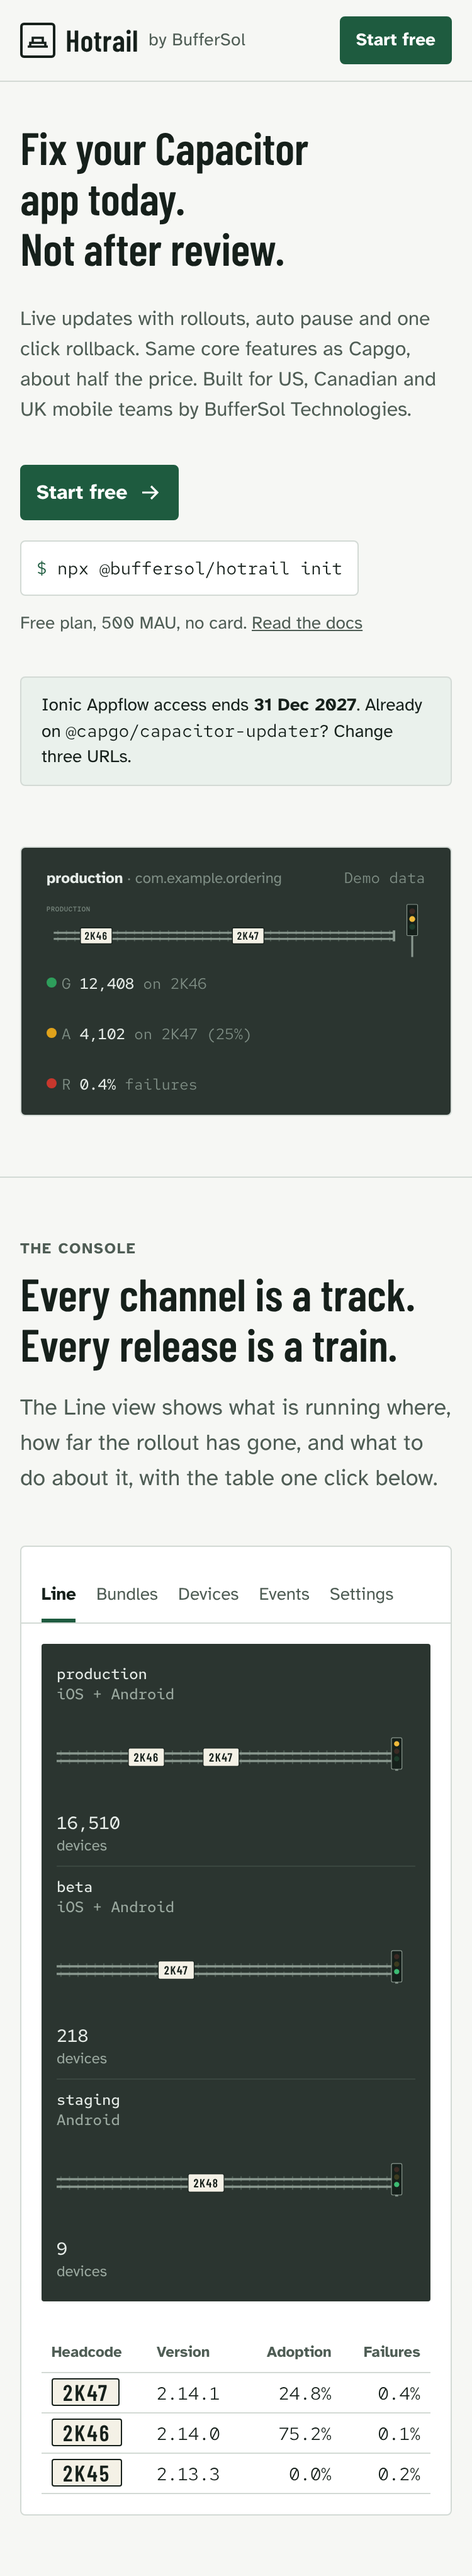
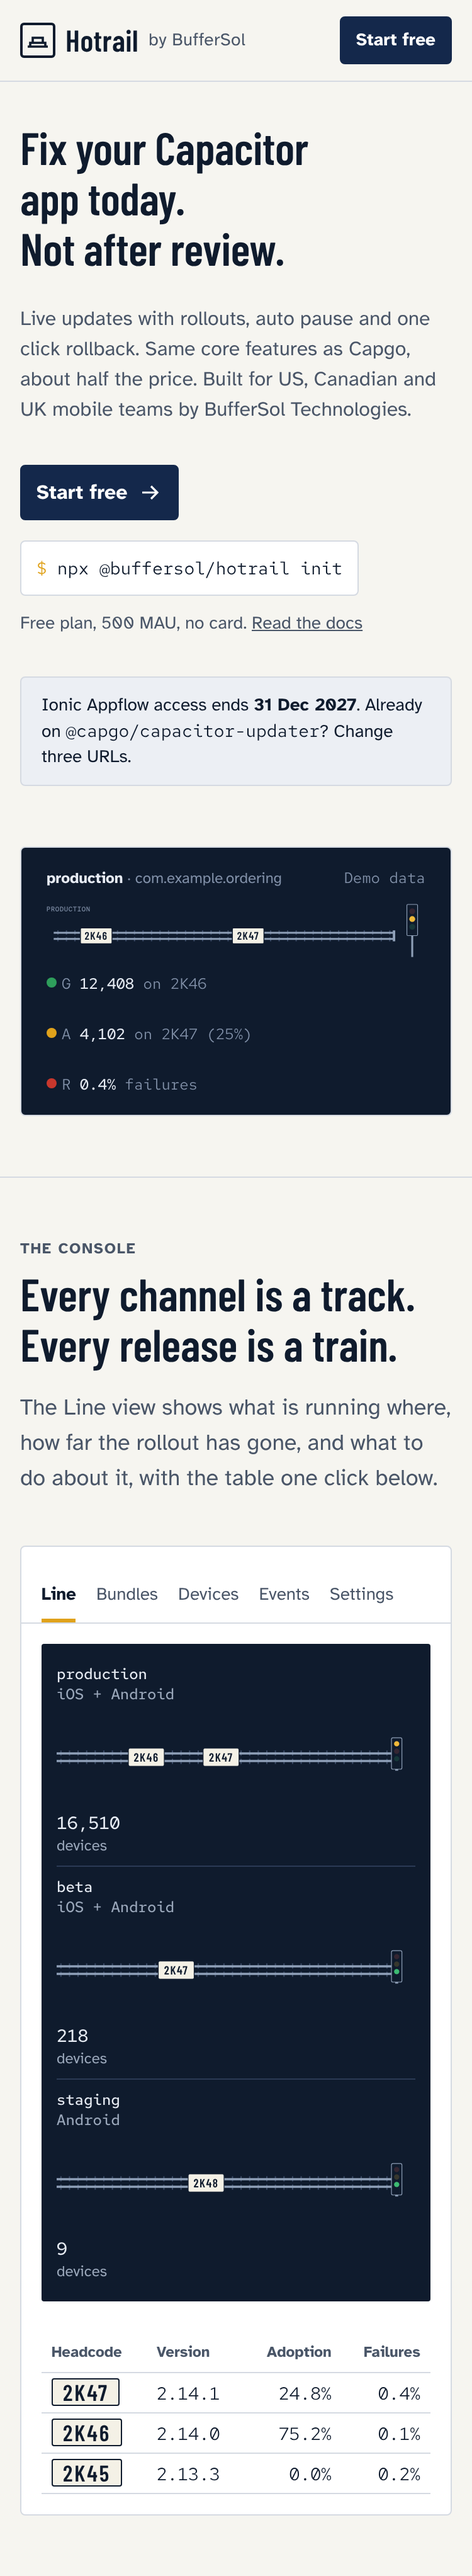
Design: signal navy + amber palette (orchestrator review) (#2)
* Phase 0: design system, section plan, architecture, roadmap, mock

Claude-Session: https://claude.ai/code/session_01Mn59CmuxkC9sgJRSjbnGEz

* Design: switch primary palette to signal navy + amber

Claude-Session: https://claude.ai/code/session_01Mn59CmuxkC9sgJRSjbnGEz

---------

diff --git a/docs/design/mock.html b/docs/design/mock.html
@@ -12,14 +12,14 @@
[2 lines of base64/hex data omitted]
 :root{
-  --bg:#F6F7F4;--surface:#FFFFFF;--soft:#EAF1EC;--ink:#16201B;--ink-muted:#4F5D55;--border:#D3DAD5;--track:#2B3530;
-  --primary:#1E5B3F;--primary-hover:#174A33;--on-primary:#FFFFFF;
+  --bg:#F6F5F0;--surface:#FFFFFF;--soft:#ECEFF4;--ink:#0F1B2D;--ink-muted:#4A5668;--border:#D5DAE2;--track:#1C2B44;
+  --primary:#14284B;--primary-hover:#0E1D38;--on-primary:#FFFFFF;
   --lamp-green:#2E9E5B;--lamp-amber:#E0A21B;--lamp-red:#C8372D;--plate:#F4F1E6;--focus:#E0A21B;--info:#2C6E91;
-  --panel:#2B3530;--panel-ink:#E6ECE8;--panel-dim:#7F8E85;
+  --panel:#0F1B2D;--panel-ink:#E7ECF4;--panel-dim:#8190A8;
   --ease:cubic-bezier(0.22,1,0.36,1);
 }
-@media (prefers-color-scheme:dark){:root:not([data-theme=light]){--bg:#0F1412;--surface:#18201C;--soft:#1F2924;--ink:#E6ECE8;--ink-muted:#9AA89F;--border:#2A3530;--track:#5D6B63;--primary:#4FB585;--primary-hover:#6AC79B;--on-primary:#0F1412;--lamp-green:#3DBB73;--lamp-amber:#F0B93A;--lamp-red:#E4574D;--focus:#F0B93A;--info:#5FA8CF;--panel:#111815;--panel-dim:#6F7F76}}
-:root[data-theme=dark]{--bg:#0F1412;--surface:#18201C;--soft:#1F2924;--ink:#E6ECE8;--ink-muted:#9AA89F;--border:#2A3530;--track:#5D6B63;--primary:#4FB585;--primary-hover:#6AC79B;--on-primary:#0F1412;--lamp-green:#3DBB73;--lamp-amber:#F0B93A;--lamp-red:#E4574D;--focus:#F0B93A;--info:#5FA8CF;--panel:#111815;--panel-dim:#6F7F76}
+@media (prefers-color-scheme:dark){:root:not([data-theme=light]){--bg:#0A101B;--surface:#121B2B;--soft:#182338;--ink:#E7ECF4;--ink-muted:#9AA7BA;--border:#243148;--track:#5A6B87;--primary:#E7ECF4;--primary-hover:#FFFFFF;--on-primary:#0A101B;--lamp-green:#3DBB73;--lamp-amber:#F0B93A;--lamp-red:#E4574D;--focus:#F0B93A;--info:#5FA8CF;--panel:#0B1422;--panel-dim:#7584A0}}
+:root[data-theme=dark]{--bg:#0A101B;--surface:#121B2B;--soft:#182338;--ink:#E7ECF4;--ink-muted:#9AA7BA;--border:#243148;--track:#5A6B87;--primary:#E7ECF4;--primary-hover:#FFFFFF;--on-primary:#0A101B;--lamp-green:#3DBB73;--lamp-amber:#F0B93A;--lamp-red:#E4574D;--focus:#F0B93A;--info:#5FA8CF;--panel:#0B1422;--panel-dim:#7584A0}
 *{box-sizing:border-box;margin:0}
 html{-webkit-text-size-adjust:100%}
 body{background:var(--bg);color:var(--ink);font-family:"Atkinson Hyperlegible",system-ui,sans-serif;font-size:16px;line-height:24px;text-wrap:pretty}
@@ -48,7 +48,7 @@ a{color:inherit}
 .hero p.sub{margin-top:24px;max-width:680px;font-size:18px;line-height:28px;color:var(--ink-muted)}
 .cta{display:flex;flex-wrap:wrap;align-items:center;gap:16px;margin-top:32px}
 .chip{display:inline-flex;align-items:center;gap:8px;padding:8px 12px;min-height:44px;background:var(--surface);border:1px solid var(--border);border-radius:4px;font-size:14px;line-height:20px}
-.chip .p{color:var(--primary)}
+.chip .p{color:var(--lamp-amber)}
 .risk{margin-top:12px;font-size:14px;line-height:20px;color:var(--ink-muted)}
 .proof{margin-top:32px;padding:12px 16px;background:var(--soft);border:1px solid var(--border);border-radius:4px;font-size:14px;line-height:20px;max-width:560px}
 .proof b{font-weight:700}
@@ -62,11 +62,11 @@ a{color:inherit}
 .lamp{display:inline-block;width:8px;height:8px;border-radius:999px;background:currentColor;vertical-align:1px;margin-right:4px}
 .g{color:var(--lamp-green)}.a{color:var(--lamp-amber)}.r{color:var(--lamp-red)}
 /* svg text */
-.t-label{font:500 11px "Red Hat Mono";fill:#7F8E85;letter-spacing:.06em}
-.t-plate{font:600 18px "Barlow Condensed";fill:#16201B;letter-spacing:.08em}
-.t-sig{font:500 11px "Red Hat Mono";fill:#E6ECE8}
-.rail{stroke:#8A988F;stroke-width:3;fill:none}
-.sleeper{stroke:#4B5A52;stroke-width:2}
+.t-label{font:500 11px "Red Hat Mono";fill:#8190A8;letter-spacing:.06em}
+.t-plate{font:600 18px "Barlow Condensed";fill:#0F1B2D;letter-spacing:.08em}
+.t-sig{font:500 11px "Red Hat Mono";fill:#E7ECF4}
+.rail{stroke:#8FA0B8;stroke-width:3;fill:none}
+.sleeper{stroke:#3A4A66;stroke-width:2}
 .train{animation:run 9s var(--ease) infinite alternate}
 @keyframes run{0%,12%{transform:translateX(0)}60%,100%{transform:translateX(250px)}}
 .sigA{animation:aspect 9s steps(1,end) infinite}
@@ -88,21 +88,21 @@ a{color:inherit}
 .main{padding:16px 24px;min-width:0}
 .tabs{display:flex;gap:24px;font-size:14px;line-height:20px;border-bottom:1px solid var(--border);margin:0 -24px 16px;padding:0 24px}
 .tabs a{padding:12px 0;text-decoration:none;color:var(--ink-muted)}
-.tabs a[aria-current]{color:var(--ink);font-weight:700;box-shadow:inset 0 -3px 0 var(--primary)}
+.tabs a[aria-current]{color:var(--ink);font-weight:700;box-shadow:inset 0 -3px 0 var(--focus)}
 .line{background:var(--panel);border-radius:2px;padding:8px 12px;color:var(--panel-ink)}
 .line .row{display:grid;grid-template-columns:96px 1fr 120px;align-items:center;gap:12px;height:76px}
-.line .row+.row{border-top:1px solid #3A4740}
-.line .nm{font:500 12px/16px "Red Hat Mono";color:#9AA89F}
-.line .nm b{display:block;color:#E6ECE8;font-weight:500}
+.line .row+.row{border-top:1px solid #2B3A55}
+.line .nm{font:500 12px/16px "Red Hat Mono";color:#9AA7BA}
+.line .nm b{display:block;color:#E7ECF4;font-weight:500}
 .line svg{width:100%;height:60px;display:block}
-.st{font-size:12px;line-height:16px;color:#9AA89F;text-align:right}
-.st b{display:block;font:500 14px/20px "Red Hat Mono";color:#E6ECE8}
+.st{font-size:12px;line-height:16px;color:#9AA7BA;text-align:right}
+.st b{display:block;font:500 14px/20px "Red Hat Mono";color:#E7ECF4}
 .tbl{margin-top:24px;width:100%;border-collapse:collapse;font-size:14px;line-height:20px}
 .tbl th{font-size:12px;line-height:16px;text-align:left;color:var(--ink-muted);font-weight:700;padding:8px 8px;border-bottom:1px solid var(--border)}
 .tbl td{height:32px;padding:0 8px;border-bottom:1px solid var(--border)}
 .tbl .num{text-align:right}
-.plate{display:inline-block;background:var(--plate);color:#16201B;border:1px solid #16201B;border-radius:2px;padding:0 8px;font:600 18px/20px "Barlow Condensed";letter-spacing:.08em}
-.insp{border-left:1px solid var(--border);padding:16px;font-size:14px;line-height:20px;box-shadow:-8px 0 24px rgba(22,32,27,.06)}
+.plate{display:inline-block;background:var(--plate);color:#0F1B2D;border:1px solid #0F1B2D;border-radius:2px;padding:0 8px;font:600 18px/20px "Barlow Condensed";letter-spacing:.08em}
+.insp{border-left:1px solid var(--border);padding:16px;font-size:14px;line-height:20px;box-shadow:-8px 0 24px rgba(15,27,45,.08)}
 .insp h3{font-size:24px;line-height:32px;display:flex;align-items:center;gap:12px}
 .kv{display:grid;grid-template-columns:auto 1fr;gap:4px 16px;margin:16px 0;font-size:14px}
 .kv dt{color:var(--ink-muted)}.kv dd{margin:0;text-align:right}
@@ -189,30 +189,30 @@ a{color:inherit}
 <!-- shared symbols -->
 <svg width="0" height="0" style="position:absolute" aria-hidden="true"><defs>
   <pattern id="sl" width="14" height="20" patternUnits="userSpaceOnUse"><line class="sleeper" x1="7" y1="2" x2="7" y2="18"/></pattern>
-  <g id="trk"><rect x="0" y="-9" width="560" height="18" fill="url(#sl)"/><line class="rail" x1="0" y1="-5" x2="560" y2="-5"/><line class="rail" x1="0" y1="5" x2="560" y2="5"/><path d="M560 -9v18" stroke="#8A988F" stroke-width="4"/></g>
-  <g id="plateg"><rect x="-26" y="-13" width="52" height="26" rx="2" fill="#F4F1E6" stroke="#16201B" stroke-width="1.5"/><text class="t-plate" text-anchor="middle" y="6" x="0"></text></g>
-  <g id="signal"><rect x="-2" y="0" width="4" height="46" fill="#8A988F"/><rect x="-11" y="-62" width="22" height="64" rx="2" fill="#16201B" stroke="#8A988F" stroke-width="1.5"/>
+  <g id="trk"><rect x="0" y="-9" width="560" height="18" fill="url(#sl)"/><line class="rail" x1="0" y1="-5" x2="560" y2="-5"/><line class="rail" x1="0" y1="5" x2="560" y2="5"/><path d="M560 -9v18" stroke="#8FA0B8" stroke-width="4"/></g>
+  <g id="plateg"><rect x="-26" y="-13" width="52" height="26" rx="2" fill="#F4F1E6" stroke="#0F1B2D" stroke-width="1.5"/><text class="t-plate" text-anchor="middle" y="6" x="0"></text></g>
+  <g id="signal"><rect x="-2" y="0" width="4" height="46" fill="#8FA0B8"/><rect x="-11" y="-62" width="22" height="64" rx="2" fill="#0F1B2D" stroke="#8FA0B8" stroke-width="1.5"/>
     <circle class="sigR" cx="0" cy="-48" r="6" fill="#E4574D"/><circle class="sigA" cx="0" cy="-32" r="6" fill="#F0B93A"/><circle cx="0" cy="-16" r="6" fill="#3DBB73" opacity=".18"/></g>
   <g id="prod">
     <text class="t-label" x="8" y="22">PRODUCTION</text>
     <g transform="translate(20,62)"><use href="#trk"/></g>
-    <g transform="translate(90,62)"><rect x="-26" y="-13" width="52" height="26" rx="2" fill="#F4F1E6" stroke="#16201B" stroke-width="1.5"/><text class="t-plate" text-anchor="middle" y="6">2K46</text></g>
-    <g transform="translate(90,62)"><g class="train"><rect x="-26" y="-13" width="52" height="26" rx="2" fill="#F4F1E6" stroke="#16201B" stroke-width="1.5"/><text class="t-plate" text-anchor="middle" y="6">2K47</text></g></g>
+    <g transform="translate(90,62)"><rect x="-26" y="-13" width="52" height="26" rx="2" fill="#F4F1E6" stroke="#0F1B2D" stroke-width="1.5"/><text class="t-plate" text-anchor="middle" y="6">2K46</text></g>
+    <g transform="translate(90,62)"><g class="train"><rect x="-26" y="-13" width="52" height="26" rx="2" fill="#F4F1E6" stroke="#0F1B2D" stroke-width="1.5"/><text class="t-plate" text-anchor="middle" y="6">2K47</text></g></g>
     <g transform="translate(610,60)"><use href="#signal" transform="scale(.8)"/></g>
   </g>
   <g id="board">
     <text class="t-label" x="8" y="22">PRODUCTION</text><g transform="translate(20,56)"><use href="#trk"/></g>
-    <g transform="translate(110,56)"><rect x="-26" y="-13" width="52" height="26" rx="2" fill="#F4F1E6" stroke="#16201B" stroke-width="1.5"/><text class="t-plate" text-anchor="middle" y="6">2K46</text></g>
-    <g transform="translate(110,56)"><g class="train"><rect x="-26" y="-13" width="52" height="26" rx="2" fill="#F4F1E6" stroke="#16201B" stroke-width="1.5"/><text class="t-plate" text-anchor="middle" y="6">2K47</text></g></g>
+    <g transform="translate(110,56)"><rect x="-26" y="-13" width="52" height="26" rx="2" fill="#F4F1E6" stroke="#0F1B2D" stroke-width="1.5"/><text class="t-plate" text-anchor="middle" y="6">2K46</text></g>
+    <g transform="translate(110,56)"><g class="train"><rect x="-26" y="-13" width="52" height="26" rx="2" fill="#F4F1E6" stroke="#0F1B2D" stroke-width="1.5"/><text class="t-plate" text-anchor="middle" y="6">2K47</text></g></g>
     <text class="t-label" x="8" y="108">BETA</text><g transform="translate(20,138)"><use href="#trk"/></g>
-    <g transform="translate(150,138)"><rect x="-26" y="-13" width="52" height="26" rx="2" fill="#F4F1E6" stroke="#16201B" stroke-width="1.5"/><text class="t-plate" text-anchor="middle" y="6">2K47</text></g>
+    <g transform="translate(150,138)"><rect x="-26" y="-13" width="52" height="26" rx="2" fill="#F4F1E6" stroke="#0F1B2D" stroke-width="1.5"/><text class="t-plate" text-anchor="middle" y="6">2K47</text></g>
     <text class="t-label" x="8" y="190">STAGING</text><g transform="translate(20,220)"><use href="#trk"/></g>
-    <g transform="translate(190,220)"><rect x="-26" y="-13" width="52" height="26" rx="2" fill="#F4F1E6" stroke="#16201B" stroke-width="1.5"/><text class="t-plate" text-anchor="middle" y="6">2K48</text></g>
+    <g transform="translate(190,220)"><rect x="-26" y="-13" width="52" height="26" rx="2" fill="#F4F1E6" stroke="#0F1B2D" stroke-width="1.5"/><text class="t-plate" text-anchor="middle" y="6">2K48</text></g>
     <g transform="translate(612,120)"><use href="#signal"/></g>
     <text class="t-sig" x="578" y="182">25%</text>
   </g>
-  <g id="row1"><g transform="translate(0,30) scale(.82,1)"><use href="#trk"/></g><g transform="translate(120,30)"><rect x="-24" y="-12" width="48" height="24" rx="2" fill="#F4F1E6" stroke="#16201B"/><text class="t-plate" text-anchor="middle" y="6" style="font-size:16px">2K46</text></g><g transform="translate(220,30)"><rect x="-24" y="-12" width="48" height="24" rx="2" fill="#F4F1E6" stroke="#16201B"/><text class="t-plate" text-anchor="middle" y="6" style="font-size:16px">2K47</text></g><g transform="translate(455,24)"><rect x="-2" y="0" width="4" height="24" fill="#8A988F"/><rect x="-7" y="-20" width="14" height="42" rx="2" fill="#16201B" stroke="#8A988F"/><circle cx="0" cy="-12" r="3.5" fill="#F0B93A"/><circle cx="0" cy="-2" r="3.5" fill="#E4574D" opacity=".18"/><circle cx="0" cy="8" r="3.5" fill="#3DBB73" opacity=".18"/></g></g>
-  <g id="row2"><g transform="translate(0,30) scale(.82,1)"><use href="#trk"/></g><g transform="translate(160,30)"><rect x="-24" y="-12" width="48" height="24" rx="2" fill="#F4F1E6" stroke="#16201B"/><text class="t-plate" text-anchor="middle" y="6" style="font-size:16px">2K47</text></g><g transform="translate(455,24)"><rect x="-2" y="0" width="4" height="24" fill="#8A988F"/><rect x="-7" y="-20" width="14" height="42" rx="2" fill="#16201B" stroke="#8A988F"/><circle cx="0" cy="-12" r="3.5" fill="#E4574D" opacity=".18"/><circle cx="0" cy="-2" r="3.5" fill="#F0B93A" opacity=".18"/><circle cx="0" cy="8" r="3.5" fill="#3DBB73"/></g></g>
-  <g id="row3"><g transform="translate(0,30) scale(.82,1)"><use href="#trk"/></g><g transform="translate(200,30)"><rect x="-24" y="-12" width="48" height="24" rx="2" fill="#F4F1E6" stroke="#16201B"/><text class="t-plate" text-anchor="middle" y="6" style="font-size:16px">2K48</text></g><g transform="translate(455,24)"><rect x="-2" y="0" width="4" height="24" fill="#8A988F"/><rect x="-7" y="-20" width="14" height="42" rx="2" fill="#16201B" stroke="#8A988F"/><circle cx="0" cy="-12" r="3.5" fill="#E4574D" opacity=".18"/><circle cx="0" cy="-2" r="3.5" fill="#F0B93A" opacity=".18"/><circle cx="0" cy="8" r="3.5" fill="#3DBB73"/></g></g>
+  <g id="row1"><g transform="translate(0,30) scale(.82,1)"><use href="#trk"/></g><g transform="translate(120,30)"><rect x="-24" y="-12" width="48" height="24" rx="2" fill="#F4F1E6" stroke="#0F1B2D"/><text class="t-plate" text-anchor="middle" y="6" style="font-size:16px">2K46</text></g><g transform="translate(220,30)"><rect x="-24" y="-12" width="48" height="24" rx="2" fill="#F4F1E6" stroke="#0F1B2D"/><text class="t-plate" text-anchor="middle" y="6" style="font-size:16px">2K47</text></g><g transform="translate(455,24)"><rect x="-2" y="0" width="4" height="24" fill="#8FA0B8"/><rect x="-7" y="-20" width="14" height="42" rx="2" fill="#0F1B2D" stroke="#8FA0B8"/><circle cx="0" cy="-12" r="3.5" fill="#F0B93A"/><circle cx="0" cy="-2" r="3.5" fill="#E4574D" opacity=".18"/><circle cx="0" cy="8" r="3.5" fill="#3DBB73" opacity=".18"/></g></g>
+  <g id="row2"><g transform="translate(0,30) scale(.82,1)"><use href="#trk"/></g><g transform="translate(160,30)"><rect x="-24" y="-12" width="48" height="24" rx="2" fill="#F4F1E6" stroke="#0F1B2D"/><text class="t-plate" text-anchor="middle" y="6" style="font-size:16px">2K47</text></g><g transform="translate(455,24)"><rect x="-2" y="0" width="4" height="24" fill="#8FA0B8"/><rect x="-7" y="-20" width="14" height="42" rx="2" fill="#0F1B2D" stroke="#8FA0B8"/><circle cx="0" cy="-12" r="3.5" fill="#E4574D" opacity=".18"/><circle cx="0" cy="-2" r="3.5" fill="#F0B93A" opacity=".18"/><circle cx="0" cy="8" r="3.5" fill="#3DBB73"/></g></g>
+  <g id="row3"><g transform="translate(0,30) scale(.82,1)"><use href="#trk"/></g><g transform="translate(200,30)"><rect x="-24" y="-12" width="48" height="24" rx="2" fill="#F4F1E6" stroke="#0F1B2D"/><text class="t-plate" text-anchor="middle" y="6" style="font-size:16px">2K48</text></g><g transform="translate(455,24)"><rect x="-2" y="0" width="4" height="24" fill="#8FA0B8"/><rect x="-7" y="-20" width="14" height="42" rx="2" fill="#0F1B2D" stroke="#8FA0B8"/><circle cx="0" cy="-12" r="3.5" fill="#E4574D" opacity=".18"/><circle cx="0" cy="-2" r="3.5" fill="#F0B93A" opacity=".18"/><circle cx="0" cy="8" r="3.5" fill="#3DBB73"/></g></g>
 </defs></svg>
 </body></html>

diff --git a/docs/DESIGN.md b/docs/DESIGN.md
@@ -18,38 +18,41 @@ For Capacitor teams who are stuck waiting 1 to 3 days on store review to fix a b
 | Railway (adjacent, loved) | "Ship software peacefully" | Real product canvas in a night-sky scene | Dusk purple, serif display + sans | Medium, real UI | Deploy |
 | Linear (adjacent, loved) | Product development system | Real product UI | Near-black, restrained, one accent | High, precise | Sign up |
 
-**Category cliches (avoid):** centered headline over a dark field with a blue/indigo accent; abstract hero art (map, floating tiles, gradients) with no product in it; pill badge above the H1; logo walls; Inter. **Nobody shows the actual release control surface in the hero**, and nobody has a visual identity of its own. **The gap we own:** a distinctive physical metaphor (railway signal box) that is also the real UI, in a green and enamel palette none of the three use.
+**Category cliches (avoid):** centered headline over a dark field with a blue/indigo accent; abstract hero art (map, floating tiles, gradients) with no product in it; pill badge above the H1; logo walls; Inter. **Nobody shows the actual release control surface in the hero**, and nobody has a visual identity of its own. **The gap we own:** a distinctive physical metaphor (railway signal box) that is also the real UI, in a navy and amber enamel palette none of the three use.
 
 ## 4. Direction
 - **Concept:** a railway signal box mimic panel. Channels are tracks, bundles are trains carrying a 4 character headcode (2K47) on an enamel plate, devices are stations, rollout percentage is a signal, rollback is a train reversing into a siding. Mood: dependable, mechanical, legible, calm, exact.
-- **Differs from the three closest competitors on four axes:** palette (railway green on warm paper vs azure/indigo/black), type (condensed railway display + hyperlegible body vs Inter/Manrope), layout (left-aligned, product-first, hero is the live panel vs centered text over art), imagery (schematic track drawings vs maps/tiles/logos).
+- **Differs from the three closest competitors on four axes:** palette (signal navy and amber on warm paper vs azure/indigo/black), type (condensed railway display + hyperlegible body vs Inter/Manrope), layout (left-aligned, product-first, hero is the live panel vs centered text over art), imagery (schematic track drawings vs maps/tiles/logos).
 - **Signature move:** the hero is the live mimic panel itself (animated SVG/CSS, static fallback): a bundle "train" travels the channel track as the rollout signal steps red, amber, green. The same component is the console's Line view, so marketing shows the real product.
 - **Density:** high in the app (32 px rows, tables one click away), medium on marketing (left aligned, long measure, hairlines).
 - **Voice:** a calm senior release engineer. Short sentences, real numbers, sparing dry railway humor, US English, no exclamation marks, sentence case.
 
-## 5. Palette (CSS variables, two layers: raw then role; components use roles only)
-Light (default) / Dark "night shift" (follows OS, `[data-theme=dark]` override):
+## 5. Palette: "signal navy and amber" (revised 5 Nov after orchestrator review)
+Change from the first draft: the railway green on warm paper was too close to DockCrate's dock green on warm paper, and all 50 BufferSol products are shown side by side. The primary family is now deep signal navy (blue black) with signal amber as the only highlight. The workbook's green stays only as the "go" lamp. Roles are unchanged, so this was a one file token swap.
+
+Two layers: raw then role; components use roles only. Light (default) / Dark "night shift" (follows OS, `[data-theme=dark]` override):
 
 | Role token | Light | Dark | Notes |
 |---|---|---|---|
-| `--bg` | #F6F7F4 | #0F1412 | page |
-| `--surface` | #FFFFFF | #18201C | cards, panels |
-| `--soft` | #EAF1EC | #1F2924 | tinted wells, table zebra |
-| `--ink` | #16201B | #E6ECE8 | text (AA on bg: 15.9:1 / 14.2:1) |
-| `--ink-muted` | #4F5D55 | #9AA89F | secondary (AA: 6.4:1 / 7.0:1) |
-| `--border` | #D3DAD5 | #2A3530 | hairline 1 px |
-| `--track` | #2B3530 | #5D6B63 | rails, 3 px |
-| `--primary` | #1E5B3F | #4FB585 | the one accent: actions, links, selected |
-| `--primary-hover` | #174A33 | #6AC79B | |
-| `--on-primary` | #FFFFFF | #0F1412 | white on #1E5B3F = 8.2:1 |
+| `--bg` | #F6F5F0 | #0A101B | page |
+| `--surface` | #FFFFFF | #121B2B | cards, panels |
+| `--soft` | #ECEFF4 | #182338 | tinted wells, rails |
+| `--ink` | #0F1B2D | #E7ECF4 | text (AA, about 16:1 / 15:1) |
+| `--ink-muted` | #4A5668 | #9AA7BA | secondary (AA) |
+| `--border` | #D5DAE2 | #243148 | hairline 1 px |
+| `--track` | #1C2B44 | #5A6B87 | rails, 3 px |
+| `--panel` | #0F1B2D | #0B1422 | the signal box board, dark in both themes |
+| `--primary` | #14284B | #E7ECF4 | the one accent family: buttons, links (dark mode inverts to pale enamel) |
+| `--primary-hover` | #0E1D38 | #FFFFFF | |
+| `--on-primary` | #FFFFFF | #0A101B | white on #14284B is about 14:1 |
+| `--focus` (signal amber) | #E0A21B | #F0B93A | 3 px focus ring, selected tab underline, prompt `$` |
 | `--lamp-green` | #2E9E5B | #3DBB73 | state only |
-| `--lamp-amber` | #E0A21B | #F0B93A | never carries white text; dark ink on amber |
-| `--lamp-red` | #C8372D | #E4574D | |
-| `--lamp-white` | #F4F1E6 | #F4F1E6 | route set on dark track |
+| `--lamp-amber` | #E0A21B | #F0B93A | state only; dark ink on amber, never white text |
+| `--lamp-red` | #C8372D | #E4574D | state only |
+| `--plate` | #F4F1E6 | #F4F1E6 | headcode enamel plate |
 | `--info` | #2C6E91 | #5FA8CF | |
-| `--focus` | #E0A21B | #F0B93A | 3 px ring, offset 2 |
 
-Rules: one accent (primary green, about 55% saturation). Lamps are state only and always pair colour + glyph + text (G ● / A ▲ / R ■). Dark lamps glow `0 0 8px currentColor` at 40%. Flat backgrounds, no background gradients, no hero text gradient (flat ink; simpler and more legible). Dark backgrounds use the workbook's own palette (override of the skill's six-value list, logged in DECISIONS.md).
+Rules: navy is the action colour, amber marks focus and selection, lamps are state only and always pair colour + glyph + text (G ● / A ▲ / R ■). Flat backgrounds, no gradients, no hero text gradient. Differs from Capgo's bright azure on near black, Capawesome's indigo and DockCrate's green. Dark backgrounds use this palette (override of the skill's six-value list, logged in DECISIONS.md).
 
 ## 6. Type
 - Display: **Barlow Condensed** 500/600 (railway signage lineage, tight, tall). Body/UI: **Atkinson Hyperlegible** 400/700 (designed for legibility; fits "legible under pressure"). Data, headcodes, CLI, tabular figures: **Red Hat Mono** 400/500.
@@ -79,4 +82,4 @@ Do: left align; show real UI with believable odd numbers (2K47, 38.6%, 12,408 de
 Don't: purple/blue gradients, glow blobs, glassmorphism (the nav is a flat translucent bar at most), rockets/clouds, emoji, sparkle icons, identical rounded card grids, cream plus terracotta, Inter/Space Grotesk/Roboto, Capgo's azure/teal/slate palette, layout, logo or the phrase "Release Control Room", fake logos/testimonials/stats, "blazing fast", "supercharge", exclamation marks.
 
 ## 12. Why this fits the ICP better
-Developers under incident pressure trust legibility and precision over decoration. Capgo and Capawesome look like generic dev-tool marketing and hide the product; OtaKit is clean but anonymous. Hotrail leads with the thing the buyer actually fears (a bad bundle on live devices) drawn as a signal box they can read in two seconds, in a palette and typeface that nobody in the category uses, so it is recognisable in a screenshot and credible as a calm, engineered tool. Accessibility (triple-coded status, hyperlegible body, AA contrast, keyboard release flow) is a visible trust signal for the security reviewer.
+Developers under incident pressure trust legibility and precision over decoration. Capgo and Capawesome look like generic dev-tool marketing and hide the product; OtaKit is clean but anonymous. Hotrail leads with the thing the buyer actually fears (a bad bundle on live devices) drawn as a signal box they can read in two seconds, in a navy and amber palette and a typeface that nobody in the category uses, so it is recognisable in a screenshot and credible as a calm, engineered tool. Accessibility (triple-coded status, hyperlegible body, AA contrast, keyboard release flow) is a visible trust signal for the security reviewer.

diff --git a/docs/DECISIONS.md b/docs/DECISIONS.md
@@ -13,3 +13,4 @@ Standing decisions are in docs/factory/BATCH1_PLAN.md (Mongo instead of Postgres
 8. **Design overrides (written per DESIGN_PLAYBOOK §3):** three font families (Barlow Condensed, Atkinson Hyperlegible, Red Hat Mono, all OFL, via next/font so self hosted) instead of the skill's one-typeface whitelist; workbook dark palette instead of the six skill dark values; Phosphor icons (skill whitelist) in place of the workbook's Lucide; no hero text gradient. Reason: ICP is a developer under incident pressure, the workbook specifies the signal box system, and none of the category uses it.
 9. **Plugin e2e** runs in GitHub Actions (macOS runner + Android emulator) because there is no Mac farm.
 10. **Oddities resolved:** Free plan has 2 apps, paid unlimited; "annual = 2 months free" is NOT used in copy (real saving is about 14%, state the dollar figure instead); no GBP/CAD prices until Stripe currency options are configured; no testimonials or logos until real ones exist.
+11. **Palette revised (5 Nov, orchestrator review):** primary family changed from railway green to deep signal navy with amber as the highlight, to avoid looking like DockCrate (dock green on warm paper) in the public side by side. Green remains only as the go lamp. Tokens in DESIGN.md section 5; mock and screenshots regenerated.
